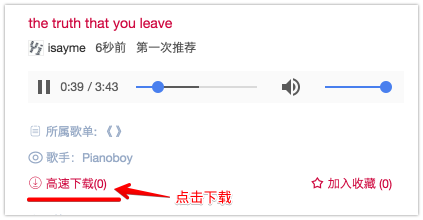
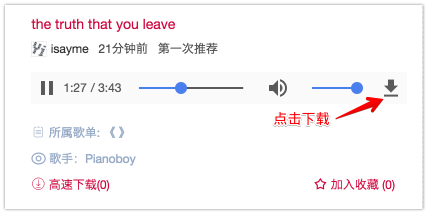
version 0.1.1

diff --git a/songtasty.user.js b/songtasty.user.js
@@ -2,7 +2,7 @@
 
 // ==UserScript==
 // @name        SongTasty
-// @version     0.1.0
+// @version     0.1.1
 // @description SongTasty歌曲下载
 // @author      iSayme
 // @namespace   https://github.com/isayme
@@ -16,15 +16,15 @@
 // ==/UserScript==
 
 ;(function () {
-  function getDownloadURL () {
-    return $('#audiob').attr('src')
-  }
-
   function getName () {
     return $('.playinfos h1').text()
   }
 
-  $(`.red a[title='高速下载本歌曲']`)
-    .attr('href', getDownloadURL())
-    .attr('download', getName())
+  function enableDownload () {
+    return $('#audiob')
+      .removeAttr('controlslist')
+      .attr('download', getName())
+  }
+
+  enableDownload()
 })()
